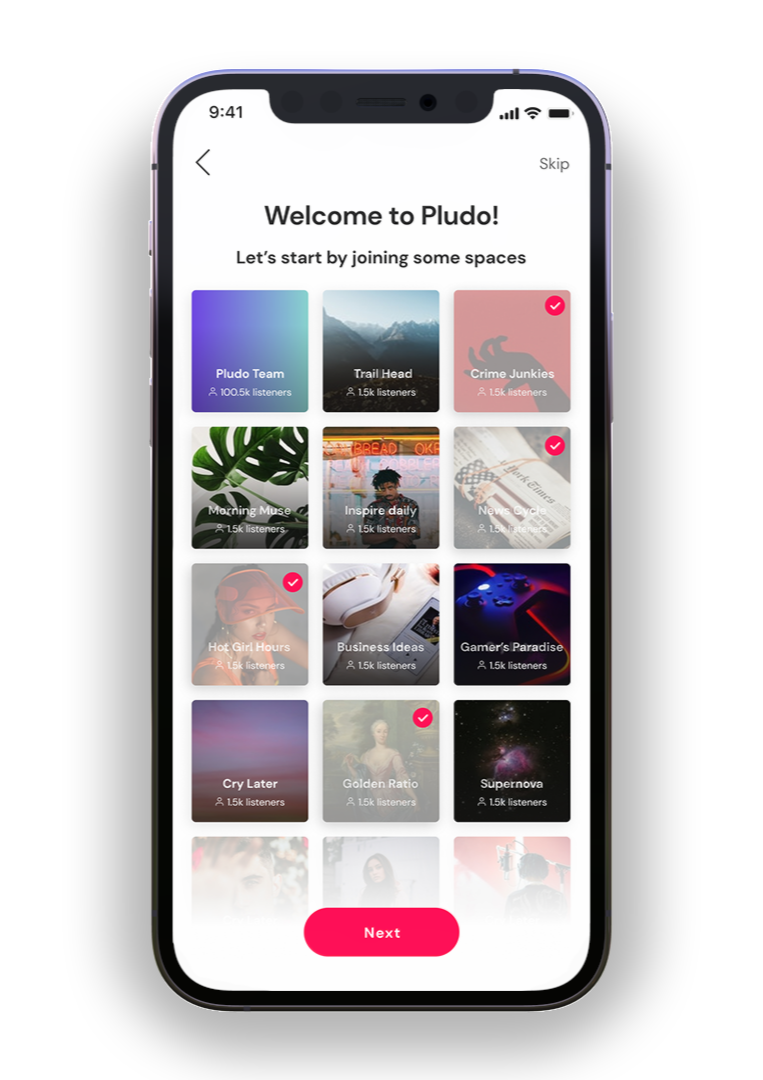
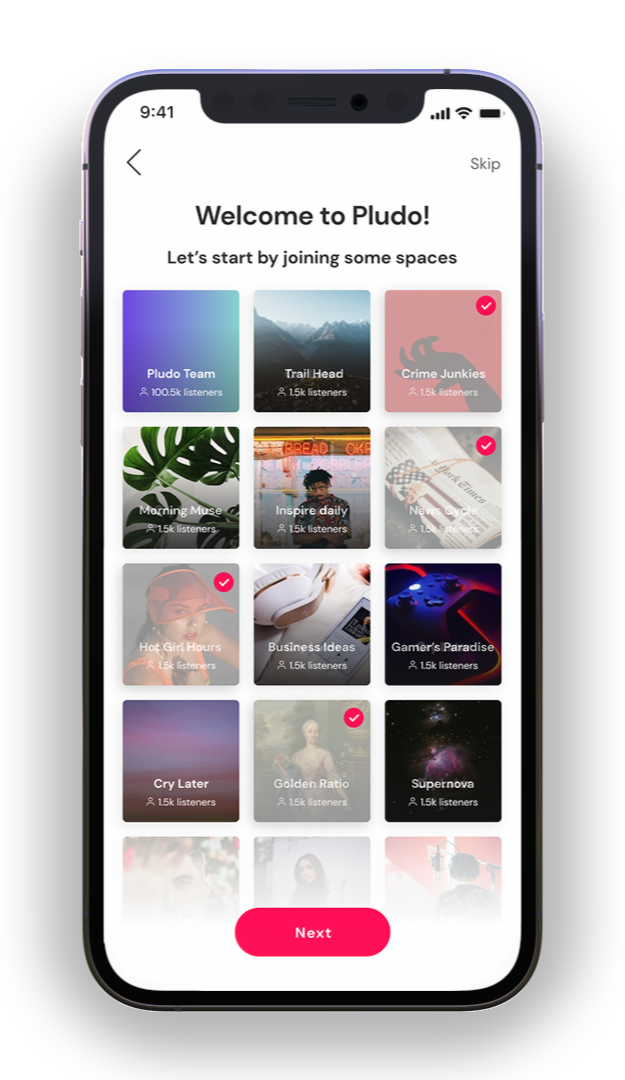
Adjusted phone screenshots and added scrolling behavior

diff --git a/index.html b/index.html
@@ -125,7 +125,7 @@
     </nav>
     <section>
         <div class="nav-spacer"></div>
-        <div class="container reveal" style="margin-top: 2rem;">
+        <div class="mt-md-4 container reveal">
                 <div class="row">
                     <div class="col-md-8 text-center text-md-left">
                         <h1 class="headline">You heard it here first.</h1>
@@ -241,7 +241,12 @@
             <div class="row justify-content-center">
                 <div class="col-md-12 text-center">
                     <h2 class="pb-5">Designed for natural listening behavior</h2>
-                    <div class="row">
+                </div>
+            </div>
+            <div class="row justify-content-center">
+                <div class="side-scroll-bumper"></div>
+                <div class="side-scroll-container col-md-12 text-center">
+                    <div class="side-scroll row">
                         <div class="col-4 text-center">
                             <h4>Create</h4>
                             <img class="w-100" src="img/create-screen.png">

diff --git a/styles/pludo-styles.css b/styles/pludo-styles.css
@@ -126,6 +126,23 @@ section .container {
     background-color: var(--gray-light);
 }
 
+.side-scroll-container {
+    overflow: scroll;
+}
+
+.side-scroll {
+    min-width: 700px;
+}
+
+.side-scroll-bumper {
+    z-index: 2000;
+    width: 70px;
+    position: absolute;
+    right: 0;
+    height: 100%;
+    background: linear-gradient(to right, rgba(20, 19, 19, 0), rgba(20, 19, 19, 1));
+}
+
 /* Iconography */
 
 .icon-container {
